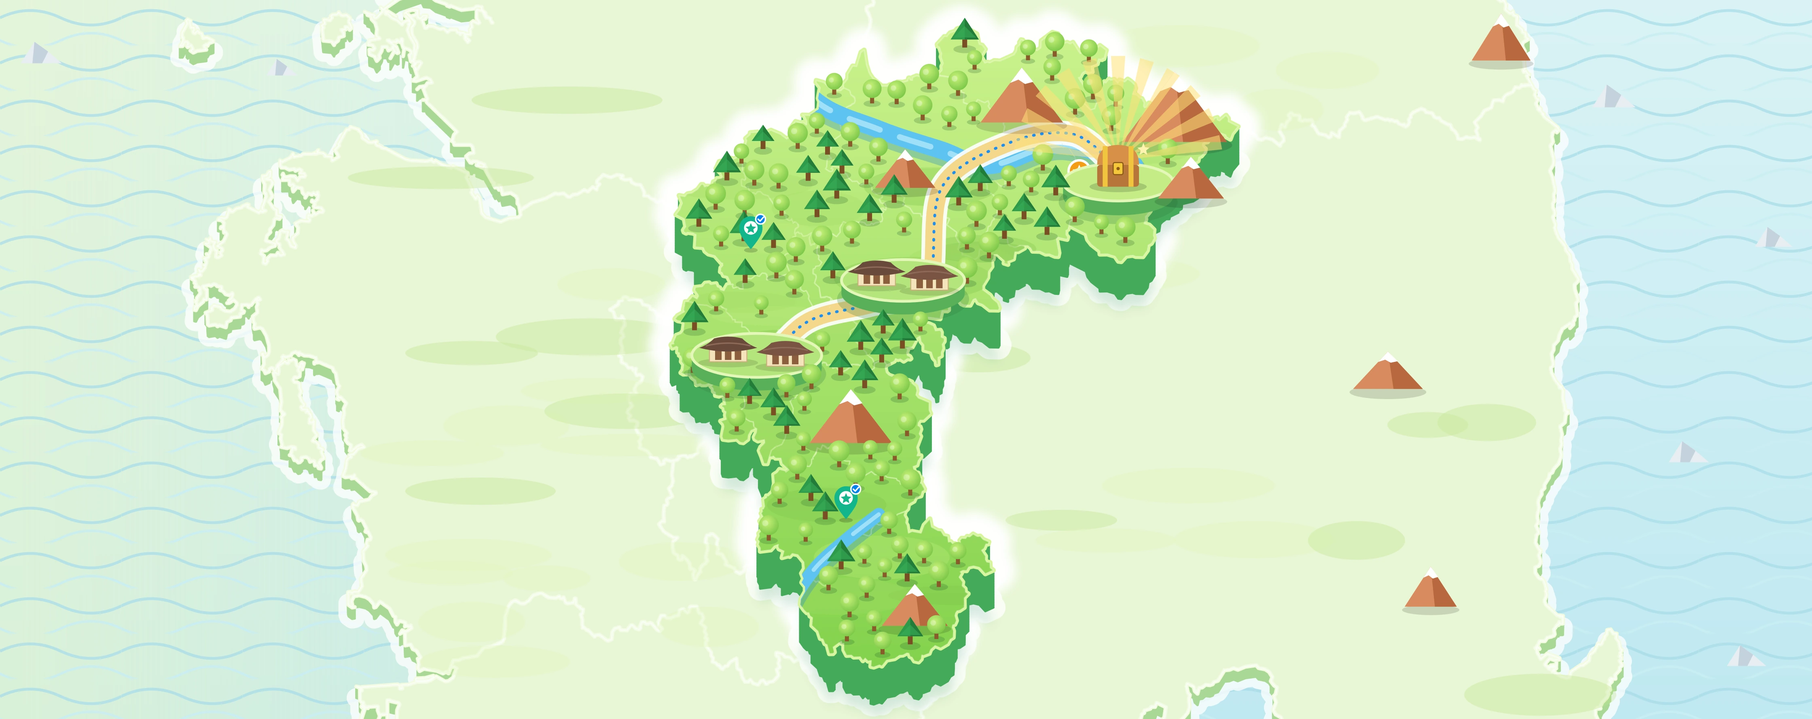
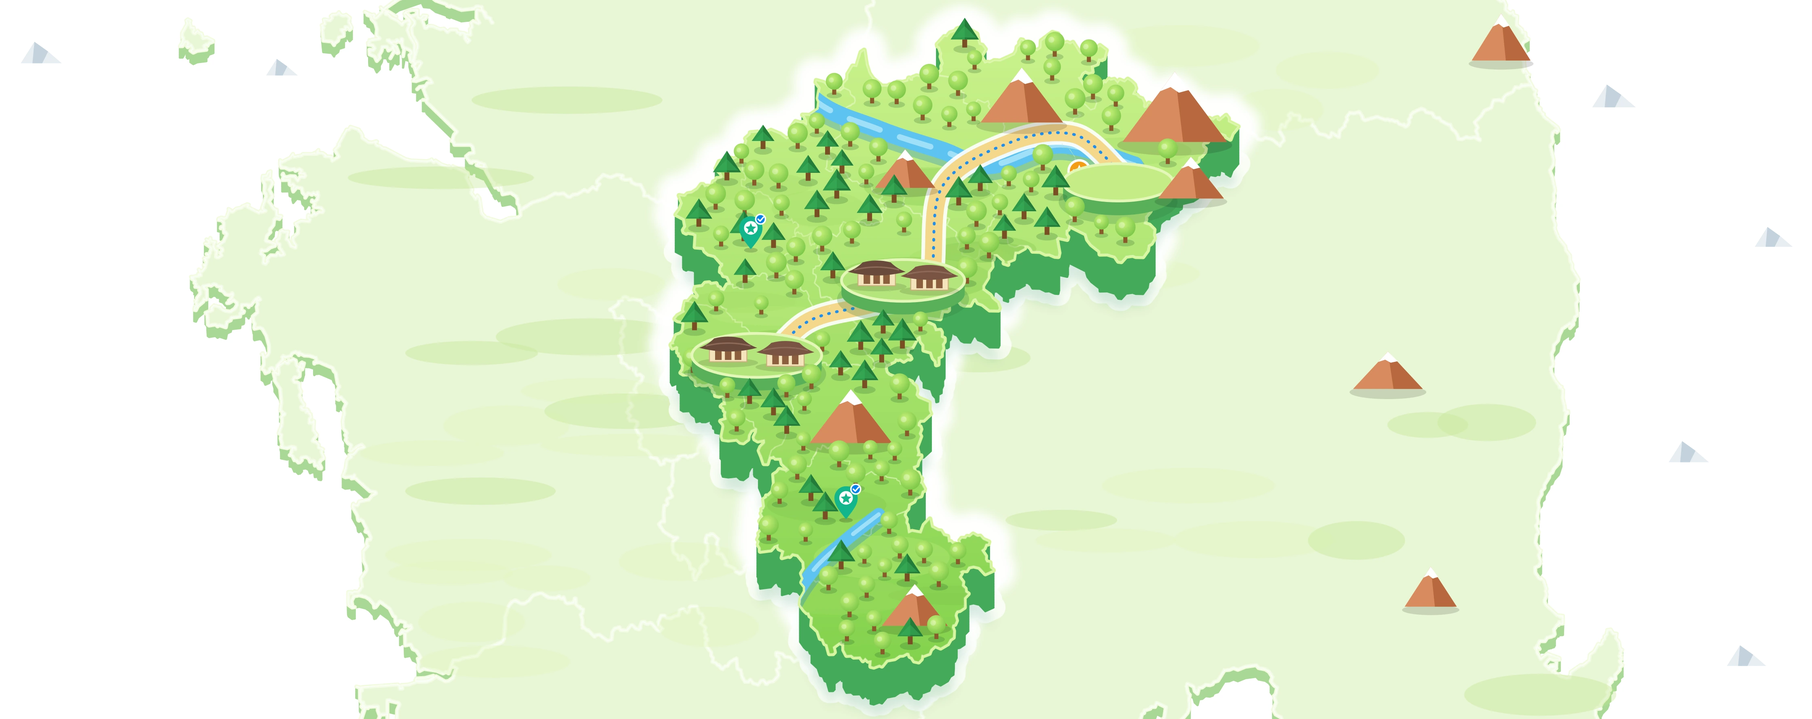
히어로: 보물상자 열림·파도 물결·구름 격하게 움직임 (바다/물결/지도 레이어 분리)
Claude-Session: https://claude.ai/code/session_01AiJtL7D364NDg6rHsnWsgg

diff --git a/intro/index.html b/intro/index.html
@@ -56,13 +56,29 @@ h1,h2,h3{text-wrap:balance;line-height:1.3;letter-spacing:-.02em}
 .stage{position:absolute;top:50%;left:var(--fx,66%);width:max(100cqw,calc(100cqh * 2.5169));aspect-ratio:2240/890;transform:translate(calc(-1 * var(--fx,66%)),-50%)}
 .layer{position:absolute;inset:0;width:100%;height:100%;display:block}
 .stage .mid{overflow:visible}
-.c{animation:flt var(--t,8s) ease-in-out var(--d,0s) infinite alternate}
-.b{animation:bob 9s ease-in-out var(--d,0s) infinite alternate}
-.glow{fill:none;stroke:#fff;stroke-width:9;stroke-linecap:round;stroke-dasharray:1 70;opacity:.95;animation:run 16s linear infinite}
-@keyframes flt{from{transform:translate(0,-9px)}to{transform:translate(var(--x,12px),11px)}}
-@keyframes bob{from{transform:translate(-14px,-3px)}to{transform:translate(16px,6px)}}
+.c{transform-box:fill-box;transform-origin:center;animation:flt var(--t,3.5s) ease-in-out var(--d,0s) infinite alternate}
+.b{animation:bob 5s ease-in-out var(--d,0s) infinite alternate}
+.glow{fill:none;stroke:#fff;stroke-width:9;stroke-linecap:round;stroke-dasharray:1 70;opacity:.95;animation:run 12s linear infinite}
+.wv{animation:wflow 5s linear infinite}
+.wb{animation:wbob 2.2s ease-in-out infinite alternate}
+@keyframes flt{from{transform:translate(calc(var(--x,40px) * -1),-26px) scale(.94) rotate(-4deg)}to{transform:translate(var(--x,40px),26px) scale(1.09) rotate(4deg)}}
+@keyframes bob{from{transform:translate(-30px,-8px)}to{transform:translate(34px,10px)}}
 @keyframes run{to{stroke-dashoffset:-710}}
-@media(prefers-reduced-motion:reduce){.c,.b,.glow{animation:none}}
+@keyframes wflow{to{transform:translateX(-150px)}}
+@keyframes wbob{from{transform:translateY(-7px)}to{transform:translateY(7px)}}
+/* 보물상자: 4.8초 주기로 열렸다 닫힘 */
+.lid{transform-box:fill-box;transform-origin:0% 100%;animation:lid 4.8s ease-in-out infinite}
+.in{animation:inglow 4.8s ease-in-out infinite;opacity:0}
+.rays{animation:rays 4.8s ease-in-out infinite;opacity:.25}
+.sp{opacity:0;animation:spk 4.8s ease-out infinite}
+.sp.s2{animation-delay:.25s}.sp.s3{animation-delay:.5s}
+.tw{transform-box:fill-box;transform-origin:center;animation:tw 1.4s ease-in-out infinite alternate}
+@keyframes lid{0%,16%{transform:rotate(0)}28%{transform:rotate(-78deg)}34%{transform:rotate(-64deg)}66%{transform:rotate(-64deg)}80%,100%{transform:rotate(0)}}
+@keyframes inglow{0%,20%{opacity:0}34%,66%{opacity:1}78%,100%{opacity:0}}
+@keyframes rays{0%,16%{opacity:.2}34%,66%{opacity:1}80%,100%{opacity:.2}}
+@keyframes spk{0%,26%{opacity:0;transform:translateY(0)}38%{opacity:1}64%{opacity:0;transform:translateY(-46px)}100%{opacity:0}}
+@keyframes tw{from{transform:scale(.6) rotate(0)}to{transform:scale(1.15) rotate(20deg)}}
+@media(prefers-reduced-motion:reduce){.c,.b,.glow,.wv,.wb,.lid,.in,.rays,.sp,.tw{animation:none}.rays{opacity:.6}}
 
 /* blue band with cards */
 .band{background:var(--blue);padding:84px 0 96px;color:#fff}
@@ -206,7 +222,7 @@ footer{background:#10213f;color:#97a7c6;text-align:center;font-size:13px;padding
 
 <main id="top">
 <section class="hero" aria-label="충북챔 소개">
-  <div class="art" aria-hidden="true"><div class="stage"><img class="layer" src="img/hero-base.webp" alt="" fetchpriority="high"><svg class="layer mid" viewBox="0 0 2240 890" aria-hidden="true"><path class="glow" d="M 935.5 464.9 C 945.5 454.0 972.1 414.5 995.5 399.9 C 1019.0 385.2 1051.2 384.2 1076.4 377.1 C 1101.5 370.0 1131.8 381.2 1146.4 357.1 C 1161.0 333.0 1147.0 262.6 1163.9 232.5 C 1180.9 202.5 1220.7 187.6 1248.1 176.6 C 1275.4 165.6 1305.7 160.9 1328.1 166.6 C 1350.4 172.3 1373.2 203.3 1382.2 210.7 "/><g class="c" style="--t:7.0s;--d:-4.4s;--x:17px"><g transform="translate(1110.814145252713 759.6458663240818) scale(0.7)"><circle cx="-44" cy="10" r="32" fill="#BFDDF2"/><circle cx="-6" cy="-6" r="42" fill="#BFDDF2"/><circle cx="40" cy="10" r="32" fill="#BFDDF2"/><circle cx="-12" cy="24" r="32" fill="#BFDDF2"/><circle cx="24" cy="24" r="30" fill="#BFDDF2"/><circle cx="-44" cy="2" r="32" fill="#fff"/><circle cx="-6" cy="-14" r="42" fill="#fff"/><circle cx="40" cy="2" r="32" fill="#fff"/><circle cx="-12" cy="16" r="32" fill="#fff"/><circle cx="24" cy="16" r="30" fill="#fff"/><text x="-2" y="14" text-anchor="middle" font-family="Noto Sans KR, Pretendard, sans-serif" font-size="44" font-weight="900" fill="#1E8EF0">?</text></g></g><g class="c" style="--t:7.9s;--d:-4.6s;--x:-15px"><g transform="translate(1015.8676728345301 657.6876887935838) scale(0.62)"><circle cx="-44" cy="10" r="32" fill="#BFDDF2"/><circle cx="-6" cy="-6" r="42" fill="#BFDDF2"/><circle cx="40" cy="10" r="32" fill="#BFDDF2"/><circle cx="-12" cy="24" r="32" fill="#BFDDF2"/><circle cx="24" cy="24" r="30" fill="#BFDDF2"/><circle cx="-44" cy="2" r="32" fill="#fff"/><circle cx="-6" cy="-14" r="42" fill="#fff"/><circle cx="40" cy="2" r="32" fill="#fff"/><circle cx="-12" cy="16" r="32" fill="#fff"/><circle cx="24" cy="16" r="30" fill="#fff"/><text x="-2" y="14" text-anchor="middle" font-family="Noto Sans KR, Pretendard, sans-serif" font-size="44" font-weight="900" fill="#1E8EF0">?</text></g></g><g class="c" style="--t:7.0s;--d:-1.9s;--x:16px"><g transform="translate(1009.5750411512784 212.93221806310774) scale(0.6)"><circle cx="-44" cy="10" r="32" fill="#BFDDF2"/><circle cx="-6" cy="-6" r="42" fill="#BFDDF2"/><circle cx="40" cy="10" r="32" fill="#BFDDF2"/><circle cx="-12" cy="24" r="32" fill="#BFDDF2"/><circle cx="24" cy="24" r="30" fill="#BFDDF2"/><circle cx="-44" cy="2" r="32" fill="#fff"/><circle cx="-6" cy="-14" r="42" fill="#fff"/><circle cx="40" cy="2" r="32" fill="#fff"/><circle cx="-12" cy="16" r="32" fill="#fff"/><circle cx="24" cy="16" r="30" fill="#fff"/><text x="-2" y="14" text-anchor="middle" font-family="Noto Sans KR, Pretendard, sans-serif" font-size="44" font-weight="900" fill="#1E8EF0">?</text></g></g><g class="c" style="--t:9.3s;--d:-3.8s;--x:-11px"><g transform="translate(1258.0590959419578 136.59078222610484) scale(0.62)"><circle cx="-44" cy="10" r="32" fill="#BFDDF2"/><circle cx="-6" cy="-6" r="42" fill="#BFDDF2"/><circle cx="40" cy="10" r="32" fill="#BFDDF2"/><circle cx="-12" cy="24" r="32" fill="#BFDDF2"/><circle cx="24" cy="24" r="30" fill="#BFDDF2"/><circle cx="-44" cy="2" r="32" fill="#fff"/><circle cx="-6" cy="-14" r="42" fill="#fff"/><circle cx="40" cy="2" r="32" fill="#fff"/><circle cx="-12" cy="16" r="32" fill="#fff"/><circle cx="24" cy="16" r="30" fill="#fff"/><text x="-2" y="14" text-anchor="middle" font-family="Noto Sans KR, Pretendard, sans-serif" font-size="44" font-weight="900" fill="#1E8EF0">?</text></g></g><g class="c" style="--t:8.5s;--d:-6.9s;--x:8px"><g transform="translate(903.1838239097858 238.46270524584355) scale(0.55)"><circle cx="-44" cy="10" r="32" fill="#BFDDF2"/><circle cx="-6" cy="-6" r="42" fill="#BFDDF2"/><circle cx="40" cy="10" r="32" fill="#BFDDF2"/><circle cx="-12" cy="24" r="32" fill="#BFDDF2"/><circle cx="24" cy="24" r="30" fill="#BFDDF2"/><circle cx="-44" cy="2" r="32" fill="#fff"/><circle cx="-6" cy="-14" r="42" fill="#fff"/><circle cx="40" cy="2" r="32" fill="#fff"/><circle cx="-12" cy="16" r="32" fill="#fff"/><circle cx="24" cy="16" r="30" fill="#fff"/><text x="-2" y="14" text-anchor="middle" font-family="Noto Sans KR, Pretendard, sans-serif" font-size="44" font-weight="900" fill="#1E8EF0">?</text></g></g><g class="c" style="--t:8.7s;--d:-0.5s;--x:-12px"><g transform="translate(1081.7575681537244 583.4183498925759) scale(0.58)"><circle cx="-44" cy="10" r="32" fill="#BFDDF2"/><circle cx="-6" cy="-6" r="42" fill="#BFDDF2"/><circle cx="40" cy="10" r="32" fill="#BFDDF2"/><circle cx="-12" cy="24" r="32" fill="#BFDDF2"/><circle cx="24" cy="24" r="30" fill="#BFDDF2"/><circle cx="-44" cy="2" r="32" fill="#fff"/><circle cx="-6" cy="-14" r="42" fill="#fff"/><circle cx="40" cy="2" r="32" fill="#fff"/><circle cx="-12" cy="16" r="32" fill="#fff"/><circle cx="24" cy="16" r="30" fill="#fff"/><text x="-2" y="14" text-anchor="middle" font-family="Noto Sans KR, Pretendard, sans-serif" font-size="44" font-weight="900" fill="#1E8EF0">?</text></g></g><g class="c" style="--t:9.1s;--d:-6.6s;--x:15px"><g transform="translate(1300.8666785105308 445.60226938995265) scale(0.7385613606060636)"><circle cx="-44" cy="10" r="32" fill="#BFDDF2"/><circle cx="-6" cy="-6" r="42" fill="#BFDDF2"/><circle cx="40" cy="10" r="32" fill="#BFDDF2"/><circle cx="-12" cy="24" r="32" fill="#BFDDF2"/><circle cx="24" cy="24" r="30" fill="#BFDDF2"/><circle cx="-44" cy="2" r="32" fill="#fff"/><circle cx="-6" cy="-14" r="42" fill="#fff"/><circle cx="40" cy="2" r="32" fill="#fff"/><circle cx="-12" cy="16" r="32" fill="#fff"/><circle cx="24" cy="16" r="30" fill="#fff"/><text x="-2" y="14" text-anchor="middle" font-family="Noto Sans KR, Pretendard, sans-serif" font-size="44" font-weight="900" fill="#1E8EF0">?</text></g></g><g class="c" style="--t:8.4s;--d:-7.4s;--x:14px"><g transform="translate(1559.8588108396318 131.02286810445253) scale(0.7868724337345366)"><circle cx="-44" cy="10" r="32" fill="#BFDDF2"/><circle cx="-6" cy="-6" r="42" fill="#BFDDF2"/><circle cx="40" cy="10" r="32" fill="#BFDDF2"/><circle cx="-12" cy="24" r="32" fill="#BFDDF2"/><circle cx="24" cy="24" r="30" fill="#BFDDF2"/><circle cx="-44" cy="2" r="32" fill="#fff"/><circle cx="-6" cy="-14" r="42" fill="#fff"/><circle cx="40" cy="2" r="32" fill="#fff"/><circle cx="-12" cy="16" r="32" fill="#fff"/><circle cx="24" cy="16" r="30" fill="#fff"/><text x="-2" y="14" text-anchor="middle" font-family="Noto Sans KR, Pretendard, sans-serif" font-size="44" font-weight="900" fill="#1E8EF0">?</text></g></g><g class="c" style="--t:7.6s;--d:-6.4s;--x:10px"><g transform="translate(478.63839279235594 726.8476138848998) scale(0.8594199077869568)"><circle cx="-44" cy="10" r="32" fill="#BFDDF2"/><circle cx="-6" cy="-6" r="42" fill="#BFDDF2"/><circle cx="40" cy="10" r="32" fill="#BFDDF2"/><circle cx="-12" cy="24" r="32" fill="#BFDDF2"/><circle cx="24" cy="24" r="30" fill="#BFDDF2"/><circle cx="-44" cy="2" r="32" fill="#fff"/><circle cx="-6" cy="-14" r="42" fill="#fff"/><circle cx="40" cy="2" r="32" fill="#fff"/><circle cx="-12" cy="16" r="32" fill="#fff"/><circle cx="24" cy="16" r="30" fill="#fff"/><text x="-2" y="14" text-anchor="middle" font-family="Noto Sans KR, Pretendard, sans-serif" font-size="44" font-weight="900" fill="#1E8EF0">?</text></g></g><g class="c" style="--t:9.5s;--d:-0.8s;--x:-15px"><g transform="translate(1659.9219364428989 730.4008918958071) scale(0.7501499868402296)"><circle cx="-44" cy="10" r="32" fill="#BFDDF2"/><circle cx="-6" cy="-6" r="42" fill="#BFDDF2"/><circle cx="40" cy="10" r="32" fill="#BFDDF2"/><circle cx="-12" cy="24" r="32" fill="#BFDDF2"/><circle cx="24" cy="24" r="30" fill="#BFDDF2"/><circle cx="-44" cy="2" r="32" fill="#fff"/><circle cx="-6" cy="-14" r="42" fill="#fff"/><circle cx="40" cy="2" r="32" fill="#fff"/><circle cx="-12" cy="16" r="32" fill="#fff"/><circle cx="24" cy="16" r="30" fill="#fff"/><text x="-2" y="14" text-anchor="middle" font-family="Noto Sans KR, Pretendard, sans-serif" font-size="44" font-weight="900" fill="#1E8EF0">?</text></g></g><g class="c" style="--t:6.9s;--d:-7.7s;--x:18px"><g transform="translate(1900.0706237258014 212.346700837554) scale(0.7580091267490073)"><circle cx="-44" cy="10" r="32" fill="#BFDDF2"/><circle cx="-6" cy="-6" r="42" fill="#BFDDF2"/><circle cx="40" cy="10" r="32" fill="#BFDDF2"/><circle cx="-12" cy="24" r="32" fill="#BFDDF2"/><circle cx="24" cy="24" r="30" fill="#BFDDF2"/><circle cx="-44" cy="2" r="32" fill="#fff"/><circle cx="-6" cy="-14" r="42" fill="#fff"/><circle cx="40" cy="2" r="32" fill="#fff"/><circle cx="-12" cy="16" r="32" fill="#fff"/><circle cx="24" cy="16" r="30" fill="#fff"/><text x="-2" y="14" text-anchor="middle" font-family="Noto Sans KR, Pretendard, sans-serif" font-size="44" font-weight="900" fill="#1E8EF0">?</text></g></g><g class="b" style="--d:-0s"><g transform="translate(93.23139765828012 421.81057659004637)"><ellipse cx="0" cy="12" rx="40" ry="8" fill="#fff" opacity=".7"/><path d="M -30 0 L 30 0 L 20 14 L -20 14 Z" fill="#fff" stroke="#12264A" stroke-width="2"/><polygon points="-2,-46 -2,-4 -28,-4" fill="#fff" stroke="#12264A" stroke-width="2"/><polygon points="2,-38 2,-4 24,-4" fill="#F49C17" stroke="#12264A" stroke-width="2"/></g></g><g class="b" style="--d:-3s"><g transform="translate(33.86919960152552 754.5518906739113)"><ellipse cx="0" cy="12" rx="40" ry="8" fill="#fff" opacity=".7"/><path d="M -30 0 L 30 0 L 20 14 L -20 14 Z" fill="#fff" stroke="#12264A" stroke-width="2"/><polygon points="-2,-46 -2,-4 -28,-4" fill="#fff" stroke="#12264A" stroke-width="2"/><polygon points="2,-38 2,-4 24,-4" fill="#F49C17" stroke="#12264A" stroke-width="2"/></g></g><g class="b" style="--d:-6s"><g transform="translate(355.3548510977621 732.6817955443976)"><ellipse cx="0" cy="12" rx="40" ry="8" fill="#fff" opacity=".7"/><path d="M -30 0 L 30 0 L 20 14 L -20 14 Z" fill="#fff" stroke="#12264A" stroke-width="2"/><polygon points="-2,-46 -2,-4 -28,-4" fill="#fff" stroke="#12264A" stroke-width="2"/><polygon points="2,-38 2,-4 24,-4" fill="#F49C17" stroke="#12264A" stroke-width="2"/></g></g></svg><img class="layer" src="img/hero-labels.webp" alt=""></div></div>
+  <div class="art" aria-hidden="true"><div class="stage"><img class="layer" src="img/hero-sea.webp" alt="" fetchpriority="high"><svg class="layer" viewBox="0 0 2240 890" aria-hidden="true"><defs><pattern id="waves" width="150" height="56" patternUnits="userSpaceOnUse"><path d="M0 22 Q 37 4 75 22 T 150 22" fill="none" stroke="#A9DCE9" stroke-width="3.5" opacity=".75"/><path d="M-75 50 Q -37 32 0 50 T 75 50 T 150 50" fill="none" stroke="#C9EDF3" stroke-width="3" opacity=".9"/></pattern></defs><g class="wb"><g class="wv"><rect x="-150" y="-20" width="2540" height="930" fill="url(#waves)"/></g></g></svg><img class="layer" src="img/hero-base.webp" alt=""><svg class="layer mid" viewBox="0 0 2240 890" aria-hidden="true"><path class="glow" d="M 935.5 464.9 C 945.5 454.0 972.1 414.5 995.5 399.9 C 1019.0 385.2 1051.2 384.2 1076.4 377.1 C 1101.5 370.0 1131.8 381.2 1146.4 357.1 C 1161.0 333.0 1147.0 262.6 1163.9 232.5 C 1180.9 202.5 1220.7 187.6 1248.1 176.6 C 1275.4 165.6 1305.7 160.9 1328.1 166.6 C 1350.4 172.3 1373.2 203.3 1382.2 210.7 "/><g class="c" style="--t:3.0s;--d:-3.8s;--x:-40px"><g transform="translate(1110.814145252713 759.6458663240818) scale(0.7)"><circle cx="-44" cy="10" r="32" fill="#BFDDF2"/><circle cx="-6" cy="-6" r="42" fill="#BFDDF2"/><circle cx="40" cy="10" r="32" fill="#BFDDF2"/><circle cx="-12" cy="24" r="32" fill="#BFDDF2"/><circle cx="24" cy="24" r="30" fill="#BFDDF2"/><circle cx="-44" cy="2" r="32" fill="#fff"/><circle cx="-6" cy="-14" r="42" fill="#fff"/><circle cx="40" cy="2" r="32" fill="#fff"/><circle cx="-12" cy="16" r="32" fill="#fff"/><circle cx="24" cy="16" r="30" fill="#fff"/><text x="-2" y="14" text-anchor="middle" font-family="Noto Sans KR, Pretendard, sans-serif" font-size="44" font-weight="900" fill="#1E8EF0">?</text></g></g><g class="c" style="--t:3.9s;--d:-0.3s;--x:-59px"><g transform="translate(1015.8676728345301 657.6876887935838) scale(0.62)"><circle cx="-44" cy="10" r="32" fill="#BFDDF2"/><circle cx="-6" cy="-6" r="42" fill="#BFDDF2"/><circle cx="40" cy="10" r="32" fill="#BFDDF2"/><circle cx="-12" cy="24" r="32" fill="#BFDDF2"/><circle cx="24" cy="24" r="30" fill="#BFDDF2"/><circle cx="-44" cy="2" r="32" fill="#fff"/><circle cx="-6" cy="-14" r="42" fill="#fff"/><circle cx="40" cy="2" r="32" fill="#fff"/><circle cx="-12" cy="16" r="32" fill="#fff"/><circle cx="24" cy="16" r="30" fill="#fff"/><text x="-2" y="14" text-anchor="middle" font-family="Noto Sans KR, Pretendard, sans-serif" font-size="44" font-weight="900" fill="#1E8EF0">?</text></g></g><g class="c" style="--t:4.4s;--d:-0.8s;--x:-48px"><g transform="translate(1009.5750411512784 212.93221806310774) scale(0.6)"><circle cx="-44" cy="10" r="32" fill="#BFDDF2"/><circle cx="-6" cy="-6" r="42" fill="#BFDDF2"/><circle cx="40" cy="10" r="32" fill="#BFDDF2"/><circle cx="-12" cy="24" r="32" fill="#BFDDF2"/><circle cx="24" cy="24" r="30" fill="#BFDDF2"/><circle cx="-44" cy="2" r="32" fill="#fff"/><circle cx="-6" cy="-14" r="42" fill="#fff"/><circle cx="40" cy="2" r="32" fill="#fff"/><circle cx="-12" cy="16" r="32" fill="#fff"/><circle cx="24" cy="16" r="30" fill="#fff"/><text x="-2" y="14" text-anchor="middle" font-family="Noto Sans KR, Pretendard, sans-serif" font-size="44" font-weight="900" fill="#1E8EF0">?</text></g></g><g class="c" style="--t:3.5s;--d:-1.6s;--x:-60px"><g transform="translate(1258.0590959419578 136.59078222610484) scale(0.62)"><circle cx="-44" cy="10" r="32" fill="#BFDDF2"/><circle cx="-6" cy="-6" r="42" fill="#BFDDF2"/><circle cx="40" cy="10" r="32" fill="#BFDDF2"/><circle cx="-12" cy="24" r="32" fill="#BFDDF2"/><circle cx="24" cy="24" r="30" fill="#BFDDF2"/><circle cx="-44" cy="2" r="32" fill="#fff"/><circle cx="-6" cy="-14" r="42" fill="#fff"/><circle cx="40" cy="2" r="32" fill="#fff"/><circle cx="-12" cy="16" r="32" fill="#fff"/><circle cx="24" cy="16" r="30" fill="#fff"/><text x="-2" y="14" text-anchor="middle" font-family="Noto Sans KR, Pretendard, sans-serif" font-size="44" font-weight="900" fill="#1E8EF0">?</text></g></g><g class="c" style="--t:3.3s;--d:-1.9s;--x:-56px"><g transform="translate(903.1838239097858 238.46270524584355) scale(0.55)"><circle cx="-44" cy="10" r="32" fill="#BFDDF2"/><circle cx="-6" cy="-6" r="42" fill="#BFDDF2"/><circle cx="40" cy="10" r="32" fill="#BFDDF2"/><circle cx="-12" cy="24" r="32" fill="#BFDDF2"/><circle cx="24" cy="24" r="30" fill="#BFDDF2"/><circle cx="-44" cy="2" r="32" fill="#fff"/><circle cx="-6" cy="-14" r="42" fill="#fff"/><circle cx="40" cy="2" r="32" fill="#fff"/><circle cx="-12" cy="16" r="32" fill="#fff"/><circle cx="24" cy="16" r="30" fill="#fff"/><text x="-2" y="14" text-anchor="middle" font-family="Noto Sans KR, Pretendard, sans-serif" font-size="44" font-weight="900" fill="#1E8EF0">?</text></g></g><g class="c" style="--t:3.1s;--d:-1.6s;--x:57px"><g transform="translate(1081.7575681537244 583.4183498925759) scale(0.58)"><circle cx="-44" cy="10" r="32" fill="#BFDDF2"/><circle cx="-6" cy="-6" r="42" fill="#BFDDF2"/><circle cx="40" cy="10" r="32" fill="#BFDDF2"/><circle cx="-12" cy="24" r="32" fill="#BFDDF2"/><circle cx="24" cy="24" r="30" fill="#BFDDF2"/><circle cx="-44" cy="2" r="32" fill="#fff"/><circle cx="-6" cy="-14" r="42" fill="#fff"/><circle cx="40" cy="2" r="32" fill="#fff"/><circle cx="-12" cy="16" r="32" fill="#fff"/><circle cx="24" cy="16" r="30" fill="#fff"/><text x="-2" y="14" text-anchor="middle" font-family="Noto Sans KR, Pretendard, sans-serif" font-size="44" font-weight="900" fill="#1E8EF0">?</text></g></g><g class="c" style="--t:2.8s;--d:-1.0s;--x:-46px"><g transform="translate(1300.8666785105308 445.60226938995265) scale(0.7385613606060636)"><circle cx="-44" cy="10" r="32" fill="#BFDDF2"/><circle cx="-6" cy="-6" r="42" fill="#BFDDF2"/><circle cx="40" cy="10" r="32" fill="#BFDDF2"/><circle cx="-12" cy="24" r="32" fill="#BFDDF2"/><circle cx="24" cy="24" r="30" fill="#BFDDF2"/><circle cx="-44" cy="2" r="32" fill="#fff"/><circle cx="-6" cy="-14" r="42" fill="#fff"/><circle cx="40" cy="2" r="32" fill="#fff"/><circle cx="-12" cy="16" r="32" fill="#fff"/><circle cx="24" cy="16" r="30" fill="#fff"/><text x="-2" y="14" text-anchor="middle" font-family="Noto Sans KR, Pretendard, sans-serif" font-size="44" font-weight="900" fill="#1E8EF0">?</text></g></g><g class="c" style="--t:3.7s;--d:-1.5s;--x:-44px"><g transform="translate(1559.8588108396318 131.02286810445253) scale(0.7868724337345366)"><circle cx="-44" cy="10" r="32" fill="#BFDDF2"/><circle cx="-6" cy="-6" r="42" fill="#BFDDF2"/><circle cx="40" cy="10" r="32" fill="#BFDDF2"/><circle cx="-12" cy="24" r="32" fill="#BFDDF2"/><circle cx="24" cy="24" r="30" fill="#BFDDF2"/><circle cx="-44" cy="2" r="32" fill="#fff"/><circle cx="-6" cy="-14" r="42" fill="#fff"/><circle cx="40" cy="2" r="32" fill="#fff"/><circle cx="-12" cy="16" r="32" fill="#fff"/><circle cx="24" cy="16" r="30" fill="#fff"/><text x="-2" y="14" text-anchor="middle" font-family="Noto Sans KR, Pretendard, sans-serif" font-size="44" font-weight="900" fill="#1E8EF0">?</text></g></g><g class="c" style="--t:3.0s;--d:-0.3s;--x:-52px"><g transform="translate(478.63839279235594 726.8476138848998) scale(0.8594199077869568)"><circle cx="-44" cy="10" r="32" fill="#BFDDF2"/><circle cx="-6" cy="-6" r="42" fill="#BFDDF2"/><circle cx="40" cy="10" r="32" fill="#BFDDF2"/><circle cx="-12" cy="24" r="32" fill="#BFDDF2"/><circle cx="24" cy="24" r="30" fill="#BFDDF2"/><circle cx="-44" cy="2" r="32" fill="#fff"/><circle cx="-6" cy="-14" r="42" fill="#fff"/><circle cx="40" cy="2" r="32" fill="#fff"/><circle cx="-12" cy="16" r="32" fill="#fff"/><circle cx="24" cy="16" r="30" fill="#fff"/><text x="-2" y="14" text-anchor="middle" font-family="Noto Sans KR, Pretendard, sans-serif" font-size="44" font-weight="900" fill="#1E8EF0">?</text></g></g><g class="c" style="--t:4.1s;--d:-2.4s;--x:-49px"><g transform="translate(1659.9219364428989 730.4008918958071) scale(0.7501499868402296)"><circle cx="-44" cy="10" r="32" fill="#BFDDF2"/><circle cx="-6" cy="-6" r="42" fill="#BFDDF2"/><circle cx="40" cy="10" r="32" fill="#BFDDF2"/><circle cx="-12" cy="24" r="32" fill="#BFDDF2"/><circle cx="24" cy="24" r="30" fill="#BFDDF2"/><circle cx="-44" cy="2" r="32" fill="#fff"/><circle cx="-6" cy="-14" r="42" fill="#fff"/><circle cx="40" cy="2" r="32" fill="#fff"/><circle cx="-12" cy="16" r="32" fill="#fff"/><circle cx="24" cy="16" r="30" fill="#fff"/><text x="-2" y="14" text-anchor="middle" font-family="Noto Sans KR, Pretendard, sans-serif" font-size="44" font-weight="900" fill="#1E8EF0">?</text></g></g><g class="c" style="--t:3.9s;--d:-0.6s;--x:57px"><g transform="translate(1900.0706237258014 212.346700837554) scale(0.7580091267490073)"><circle cx="-44" cy="10" r="32" fill="#BFDDF2"/><circle cx="-6" cy="-6" r="42" fill="#BFDDF2"/><circle cx="40" cy="10" r="32" fill="#BFDDF2"/><circle cx="-12" cy="24" r="32" fill="#BFDDF2"/><circle cx="24" cy="24" r="30" fill="#BFDDF2"/><circle cx="-44" cy="2" r="32" fill="#fff"/><circle cx="-6" cy="-14" r="42" fill="#fff"/><circle cx="40" cy="2" r="32" fill="#fff"/><circle cx="-12" cy="16" r="32" fill="#fff"/><circle cx="24" cy="16" r="30" fill="#fff"/><text x="-2" y="14" text-anchor="middle" font-family="Noto Sans KR, Pretendard, sans-serif" font-size="44" font-weight="900" fill="#1E8EF0">?</text></g></g><g class="b" style="--d:-0s"><g transform="translate(93.23139765828012 421.81057659004637)"><ellipse cx="0" cy="12" rx="40" ry="8" fill="#fff" opacity=".7"/><path d="M -30 0 L 30 0 L 20 14 L -20 14 Z" fill="#fff" stroke="#12264A" stroke-width="2"/><polygon points="-2,-46 -2,-4 -28,-4" fill="#fff" stroke="#12264A" stroke-width="2"/><polygon points="2,-38 2,-4 24,-4" fill="#F49C17" stroke="#12264A" stroke-width="2"/></g></g><g class="b" style="--d:-2s"><g transform="translate(33.86919960152552 754.5518906739113)"><ellipse cx="0" cy="12" rx="40" ry="8" fill="#fff" opacity=".7"/><path d="M -30 0 L 30 0 L 20 14 L -20 14 Z" fill="#fff" stroke="#12264A" stroke-width="2"/><polygon points="-2,-46 -2,-4 -28,-4" fill="#fff" stroke="#12264A" stroke-width="2"/><polygon points="2,-38 2,-4 24,-4" fill="#F49C17" stroke="#12264A" stroke-width="2"/></g></g><g class="b" style="--d:-4s"><g transform="translate(355.3548510977621 732.6817955443976)"><ellipse cx="0" cy="12" rx="40" ry="8" fill="#fff" opacity=".7"/><path d="M -30 0 L 30 0 L 20 14 L -20 14 Z" fill="#fff" stroke="#12264A" stroke-width="2"/><polygon points="-2,-46 -2,-4 -28,-4" fill="#fff" stroke="#12264A" stroke-width="2"/><polygon points="2,-38 2,-4 24,-4" fill="#F49C17" stroke="#12264A" stroke-width="2"/></g></g><g transform="translate(1382.2 225.7) scale(0.68) translate(-1382.2 -225.7) translate(1382.2 205.7)"><g class="rays"><polygon points="0,-20 -189,-40 -184,-66" fill="#FFE27A" opacity=".55"/><polygon points="0,-20 -176,-91 -165,-115" fill="#FFE27A" opacity=".55"/><polygon points="0,-20 -150,-137 -132,-157" fill="#FFE27A" opacity=".55"/><polygon points="0,-20 -112,-174 -89,-188" fill="#FFE27A" opacity=".55"/><polygon points="0,-20 -65,-199 -40,-206" fill="#FFE27A" opacity=".55"/><polygon points="0,-20 -13,-210 13,-210" fill="#FFE27A" opacity=".55"/><polygon points="0,-20 40,-206 65,-199" fill="#FFE27A" opacity=".55"/><polygon points="0,-20 89,-188 112,-174" fill="#FFE27A" opacity=".55"/><polygon points="0,-20 132,-157 150,-137" fill="#FFE27A" opacity=".55"/><polygon points="0,-20 165,-115 176,-91" fill="#FFE27A" opacity=".55"/><polygon points="0,-20 184,-66 189,-40" fill="#FFE27A" opacity=".55"/></g><ellipse cx="0" cy="28" rx="52" ry="10" fill="#000" opacity=".16"/><rect x="-38" y="-12" width="76" height="40" rx="6" fill="#B8763A"/><rect x="-34" y="-12" width="68" height="8" rx="3" fill="#6b3f12"/><ellipse class="in" cx="0" cy="-10" rx="32" ry="9" fill="#FFF3B0"/><rect x="-28" y="-12" width="9" height="40" fill="#F2C440"/><rect x="19" y="-12" width="9" height="40" fill="#F2C440"/><rect x="-9" y="-16" width="18" height="22" rx="3" fill="#F5C73A" stroke="#8a5a1a" stroke-width="2"/><circle cx="0" cy="-5" r="3" fill="#8a5a1a"/><g class="lid"><path d="M -38 -12 Q -38 -48 0 -48 Q 38 -48 38 -12 Z" fill="#D79048"/><rect x="-28" y="-38" width="9" height="26" fill="#F2C440"/><rect x="19" y="-38" width="9" height="26" fill="#F2C440"/></g><g class="sp s1"><polygon points="0,-9 3,-3 9,-2 4,2 6,8 0,5 -6,8 -4,2 -9,-2 -3,-3" fill="#FFF3B0" transform="translate(-14 -20)"/></g><g class="sp s2"><polygon points="0,-9 3,-3 9,-2 4,2 6,8 0,5 -6,8 -4,2 -9,-2 -3,-3" fill="#FFE27A" transform="translate(12 -24)"/></g><g class="sp s3"><polygon points="0,-9 3,-3 9,-2 4,2 6,8 0,5 -6,8 -4,2 -9,-2 -3,-3" fill="#fff" transform="translate(0 -30) scale(.8)"/></g><polygon class="tw" points="46,-52 49,-44 57,-43 51,-38 53,-30 46,-34 39,-30 41,-38 35,-43 43,-44" fill="#FFF3B0"/></g></svg><img class="layer" src="img/hero-labels.webp" alt=""></div></div>
   <div class="card">
     <span class="eyebrow">충청북도 여행 처방 앱</span>
     <h1><span class="ln">어디가 불편하세요?</span><span class="ln"><em>여행</em>으로 처방해 드려요</span></h1>
